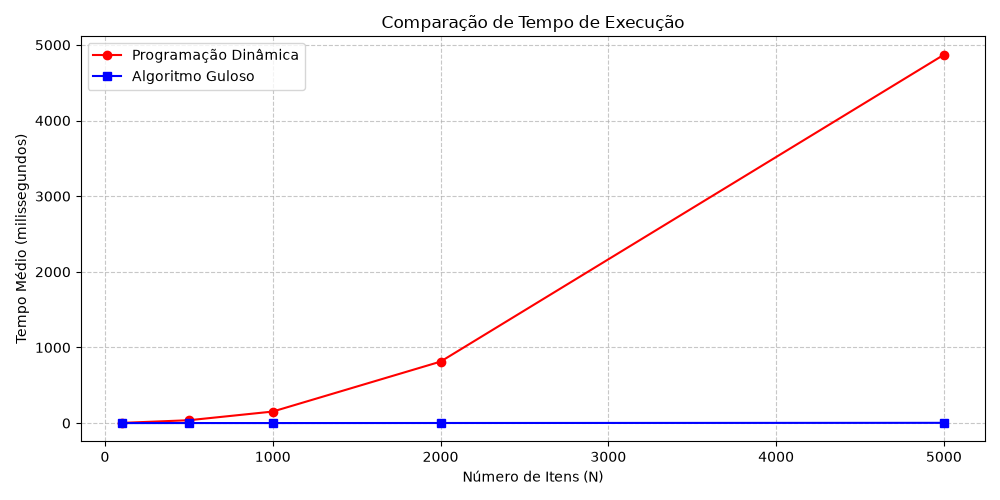
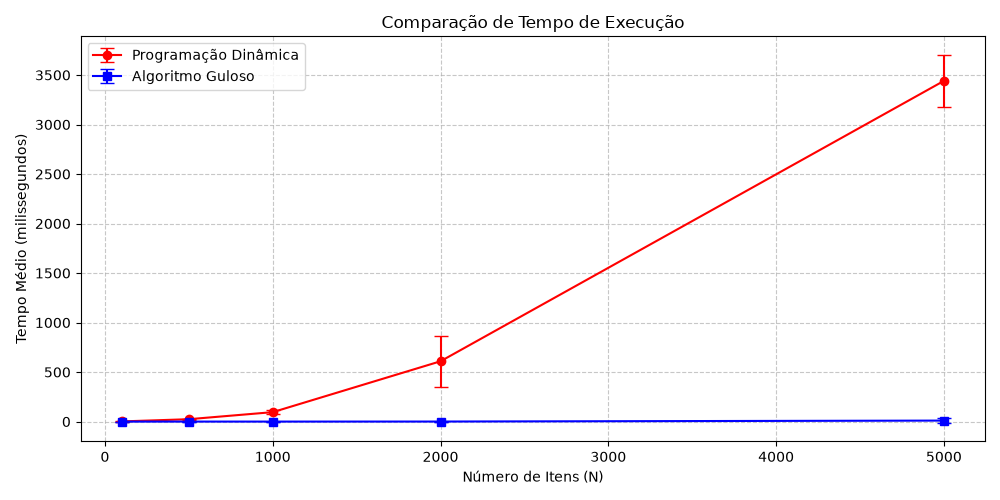
finalizando o código

diff --git a/src/Main.java b/src/Main.java
@@ -1,56 +1,74 @@
 import java.io.FileWriter;
 import java.io.IOException;
+import java.util.ArrayList;
+import java.util.List;
 import java.util.Locale;
 import java.util.Random;
 
 public class Main {
 
-    public static void executarAdversariais(EstrategiaMochila pd, EstrategiaMochila guloso) {
+    public static void executarAdversariais(
+        EstrategiaMochila pd,
+        EstrategiaMochila guloso
+    ) {
         System.out.println("=== Teste nas intâncias adversariais ===");
 
         // Instância 1
-        int[] p1 = {10, 20, 30};
-        int[] v1 = {60, 100, 120};
+        int[] p1 = { 10, 20, 30 };
+        int[] v1 = { 60, 100, 120 };
         int W1 = 50;
         System.out.println("\n[Instancia Adversarial 1]");
         Resultado rPD1 = pd.resolver(p1, v1, W1);
         Resultado rGuloso1 = guloso.resolver(p1, v1, W1);
-        System.out.println("PD: Valor = " + rPD1.valor + ", Itens = " + rPD1.itens);
-        System.out.println("Guloso: Valor = " + rGuloso1.valor + ", Itens = " + rGuloso1.itens);
+        System.out.println(
+            "PD: Valor = " + rPD1.valor + ", Itens = " + rPD1.itens
+        );
+        System.out.println(
+            "Guloso: Valor = " + rGuloso1.valor + ", Itens = " + rGuloso1.itens
+        );
 
         // Instância 2
-        int[] p2 = {1, 50, 50};
-        int[] v2 = {10, 99, 99};
+        int[] p2 = { 1, 50, 50 };
+        int[] v2 = { 10, 99, 99 };
         int W2 = 100;
         System.out.println("\n[Instancia Adversarial 2]");
         Resultado rPD2 = pd.resolver(p2, v2, W2);
         Resultado rGuloso2 = guloso.resolver(p2, v2, W2);
-        System.out.println("PD: Valor = " + rPD2.valor + ", Itens = " + rPD2.itens);
-        System.out.println("Guloso: Valor = " + rGuloso2.valor + ", Itens = " + rGuloso2.itens);
+        System.out.println(
+            "PD: Valor = " + rPD2.valor + ", Itens = " + rPD2.itens
+        );
+        System.out.println(
+            "Guloso: Valor = " + rGuloso2.valor + ", Itens = " + rGuloso2.itens
+        );
     }
 
     public static void main(String[] args) {
-        // Instanciando as estratégias através da Interface
         EstrategiaMochila pd = new MochilaPD();
         EstrategiaMochila guloso = new MochilaGuloso();
 
         executarAdversariais(pd, guloso);
 
-        int[] tamanhos = {100, 500, 1000, 2000, 5000};
+        int[] tamanhos = { 100, 500, 1000, 2000, 5000 };
         int numInstancias = 5;
         int numExecucoes = 10;
 
         try (FileWriter writer = new FileWriter("resultados_mochila.csv")) {
-            writer.write("N,Tempo_PD_Media_ms,Tempo_Guloso_Media_ms,Valor_PD_Media,Valor_Guloso_Media,Qualidade_Guloso_Percentual\n");
+            writer.write(
+                "N,Tempo_PD_Media_ms,Tempo_PD_DP_ms,Tempo_Guloso_Media_ms,Tempo_Guloso_DP_ms,Valor_PD_Media,Valor_Guloso_Media,Qualidade_Guloso_Percentual\n"
+            );
 
             System.out.println("Iniciando bateria de experimentos pesados...");
 
             for (int n : tamanhos) {
                 System.out.println("Processando tamanho N = " + n + "...");
 
-                double somaTempoPDGeral = 0, somaTempoGulosoGeral = 0;
-                double somaValorPDGeral = 0, somaValorGulosoGeral = 0;
+                double somaValorPDGeral = 0,
+                    somaValorGulosoGeral = 0;
                 double somaQualidade = 0;
+
+                // 2. Listas para armazenar individualmente cada amostra de tempo
+                List<Double> temposPD = new ArrayList<>();
+                List<Double> temposGuloso = new ArrayList<>();
 
                 for (int id = 0; id < numInstancias; id++) {
                     int seed = 42 + id;
@@ -64,46 +82,82 @@ public class Main {
                     }
                     int W = 50 * n;
 
-                    // Execuções PD usando a interface
-                    double tempoPDTotal = 0;
                     int valPD = 0;
                     for (int e = 0; e < numExecucoes; e++) {
                         long inicio = System.nanoTime();
                         valPD = pd.resolver(pesos, valores, W).valor;
                         long fim = System.nanoTime();
-                        tempoPDTotal += (fim - inicio) / 1_000_000.0;
+                        // Guardar tempo exato desta execução
+                        temposPD.add((fim - inicio) / 1_000_000.0);
                     }
 
-                    // Execuções Guloso usando a interface
-                    double tempoGulosoTotal = 0;
                     int valGuloso = 0;
                     for (int e = 0; e < numExecucoes; e++) {
                         long inicio = System.nanoTime();
                         valGuloso = guloso.resolver(pesos, valores, W).valor;
                         long fim = System.nanoTime();
-                        tempoGulosoTotal += (fim - inicio) / 1_000_000.0;
+                        temposGuloso.add((fim - inicio) / 1_000_000.0);
                     }
 
-                    somaTempoPDGeral += tempoPDTotal / numExecucoes;
-                    somaTempoGulosoGeral += tempoGulosoTotal / numExecucoes;
                     somaValorPDGeral += valPD;
                     somaValorGulosoGeral += valGuloso;
-                    somaQualidade += ((double) valGuloso / valPD);
+                    somaQualidade += (double) valGuloso / valPD;
                 }
 
-                double mediaTempoPD = somaTempoPDGeral / numInstancias;
-                double mediaTempoGuloso = somaTempoGulosoGeral / numInstancias;
+                // 3. Cálculo das Médias Totais
+                double somaTempoPD = 0,
+                    somaTempoGuloso = 0;
+                for (double t : temposPD) somaTempoPD += t;
+                for (double t : temposGuloso) somaTempoGuloso += t;
+
+                double mediaTempoPD = somaTempoPD / temposPD.size();
+                double mediaTempoGuloso = somaTempoGuloso / temposGuloso.size();
+
+                // 4. Cálculo do Desvio Padrão
+                double somaVarPD = 0,
+                    somaVarGuloso = 0;
+                for (double t : temposPD)
+                    somaVarPD += Math.pow(t - mediaTempoPD, 2);
+                for (double t : temposGuloso)
+                    somaVarGuloso += Math.pow(t - mediaTempoGuloso, 2);
+
+                double desvioPadraoPD = Math.sqrt(
+                    somaVarPD / (temposPD.size() - 1)
+                );
+                double desvioPadraoGuloso = Math.sqrt(
+                    somaVarGuloso / (temposGuloso.size() - 1)
+                );
+
                 double mediaValorPD = somaValorPDGeral / numInstancias;
                 double mediaValorGuloso = somaValorGulosoGeral / numInstancias;
                 double mediaQualidade = (somaQualidade / numInstancias) * 100.0;
 
-                writer.write(String.format(Locale.US, "%d,%.4f,%.4f,%.2f,%.2f,%.2f\n",
-                        n, mediaTempoPD, mediaTempoGuloso, mediaValorPD, mediaValorGuloso, mediaQualidade));
+                // 5. Escrita no CSV
+                writer.write(
+                    String.format(
+                        Locale.US,
+                        "%d,%.4f,%.4f,%.4f,%.4f,%.2f,%.2f,%.2f\n",
+                        n,
+                        mediaTempoPD,
+                        desvioPadraoPD,
+                        mediaTempoGuloso,
+                        desvioPadraoGuloso,
+                        mediaValorPD,
+                        mediaValorGuloso,
+                        mediaQualidade
+                    )
+                );
 
-                System.out.printf(Locale.US, " -> Concluido N=%d. Qualidade Guloso: %.2f%%\n", n, mediaQualidade);
+                System.out.printf(
+                    Locale.US,
+                    " -> Concluido N=%d. Qualidade Guloso: %.2f%%\n",
+                    n,
+                    mediaQualidade
+                );
             }
-            System.out.println("Experimentos finalizados. Dados salvos em 'resultados_mochila.csv'.");
-
+            System.out.println(
+                "Experimentos finalizados. Dados salvos em 'resultados_mochila.csv'."
+            );
         } catch (IOException e) {
             e.printStackTrace();
         }

diff --git a/plotar.py b/plotar.py
@@ -1,31 +1,51 @@
-import pandas as pd
 import matplotlib.pyplot as plt
+import pandas as pd
 
-# Lê o CSV que foi gerado pelo seu programa em Java
-df = pd.read_csv('src/resultados_mochila.csv')
+df = pd.read_csv("src/resultados_mochila.csv")
 
 # --- Gráfico 1: Tempos de Execução ---
 plt.figure(figsize=(10, 5))
-plt.plot(df['N'], df['Tempo_PD_Media_ms'], marker='o', color='red', label='Programação Dinâmica')
-plt.plot(df['N'], df['Tempo_Guloso_Media_ms'], marker='s', color='blue', label='Algoritmo Guloso')
-plt.title('Comparação de Tempo de Execução')
-plt.xlabel('Número de Itens (N)')
-plt.ylabel('Tempo Médio (milissegundos)')
-plt.grid(True, linestyle='--', alpha=0.7)
+
+plt.errorbar(
+    df["N"],
+    df["Tempo_PD_Media_ms"],
+    yerr=df["Tempo_PD_DP_ms"],
+    fmt="-o",
+    color="red",
+    label="Programação Dinâmica",
+    capsize=5,
+)
+
+plt.errorbar(
+    df["N"],
+    df["Tempo_Guloso_Media_ms"],
+    yerr=df["Tempo_Guloso_DP_ms"],
+    fmt="-s",
+    color="blue",
+    label="Algoritmo Guloso",
+    capsize=5,
+)
+
+plt.title("Comparação de Tempo de Execução")
+plt.xlabel("Número de Itens (N)")
+plt.ylabel("Tempo Médio (milissegundos)")
+plt.grid(True, linestyle="--", alpha=0.7)
 plt.legend()
 plt.tight_layout()
-plt.savefig('grafico_tempo.png')
+plt.savefig("grafico_tempo.png")
 
 # --- Gráfico 2: Valores das Soluções ---
 plt.figure(figsize=(10, 5))
-plt.plot(df['N'], df['Valor_PD_Media'], marker='o', color='green', label='PD (Ótimo)')
-plt.plot(df['N'], df['Valor_Guloso_Media'], marker='x', color='purple', label='Guloso')
-plt.title('Comparação do Valor da Solução')
-plt.xlabel('Número de Itens (N)')
-plt.ylabel('Valor Médio da Solução')
-plt.grid(True, linestyle='--', alpha=0.7)
+plt.plot(df["N"], df["Valor_PD_Media"], marker="o", color="green", label="PD (Ótimo)")
+plt.plot(df["N"], df["Valor_Guloso_Media"], marker="x", color="purple", label="Guloso")
+plt.title("Comparação do Valor da Solução")
+plt.xlabel("Número de Itens (N)")
+plt.ylabel("Valor Médio da Solução")
+plt.grid(True, linestyle="--", alpha=0.7)
 plt.legend()
 plt.tight_layout()
-plt.savefig('grafico_valor.png')
+plt.savefig("grafico_valor.png")
 
-print("Gráficos gerados com sucesso! Verifique os arquivos grafico_tempo.png e grafico_valor.png.")
+print(
+    "Gráficos gerados com sucesso! Verifique os arquivos grafico_tempo.png e grafico_valor.png."
+)